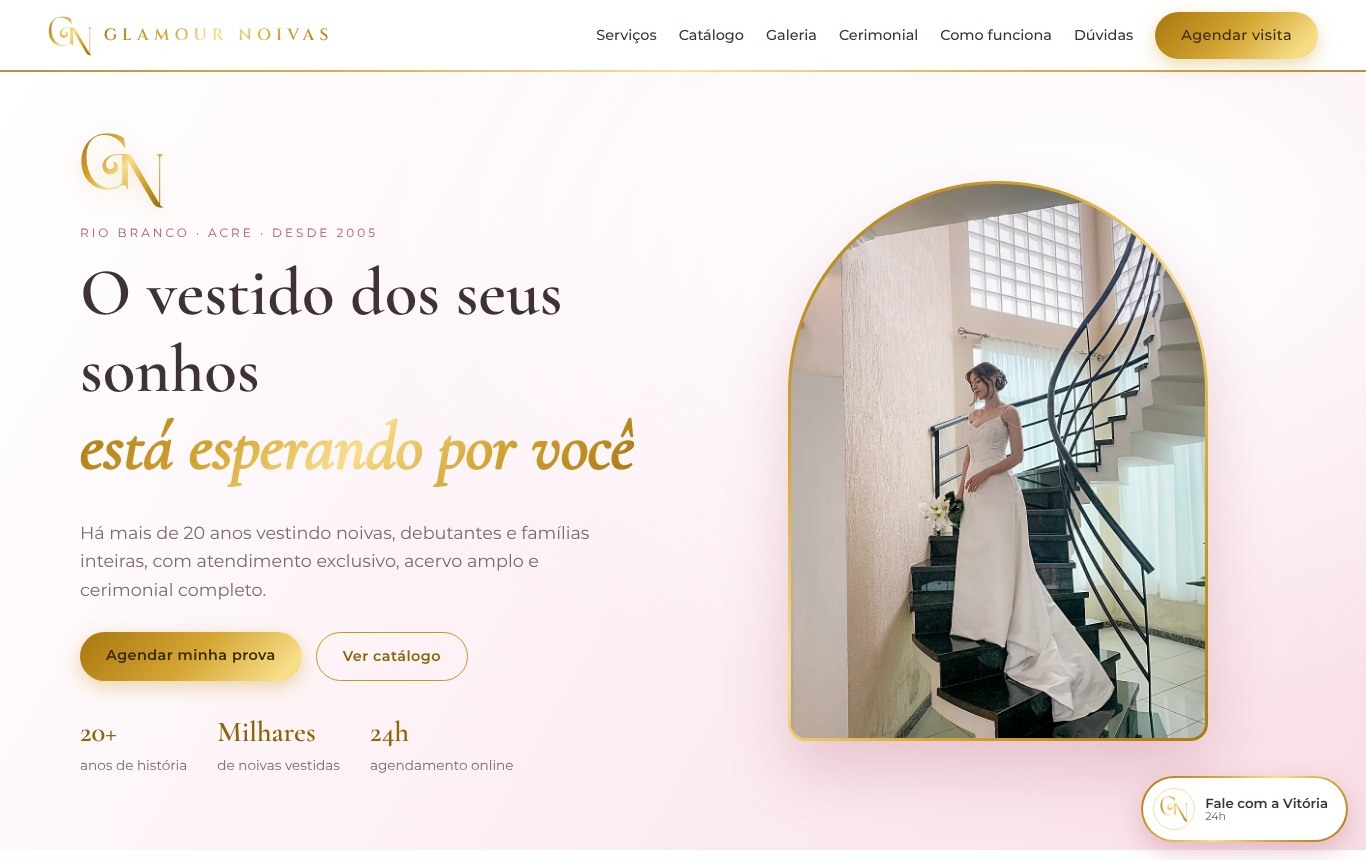
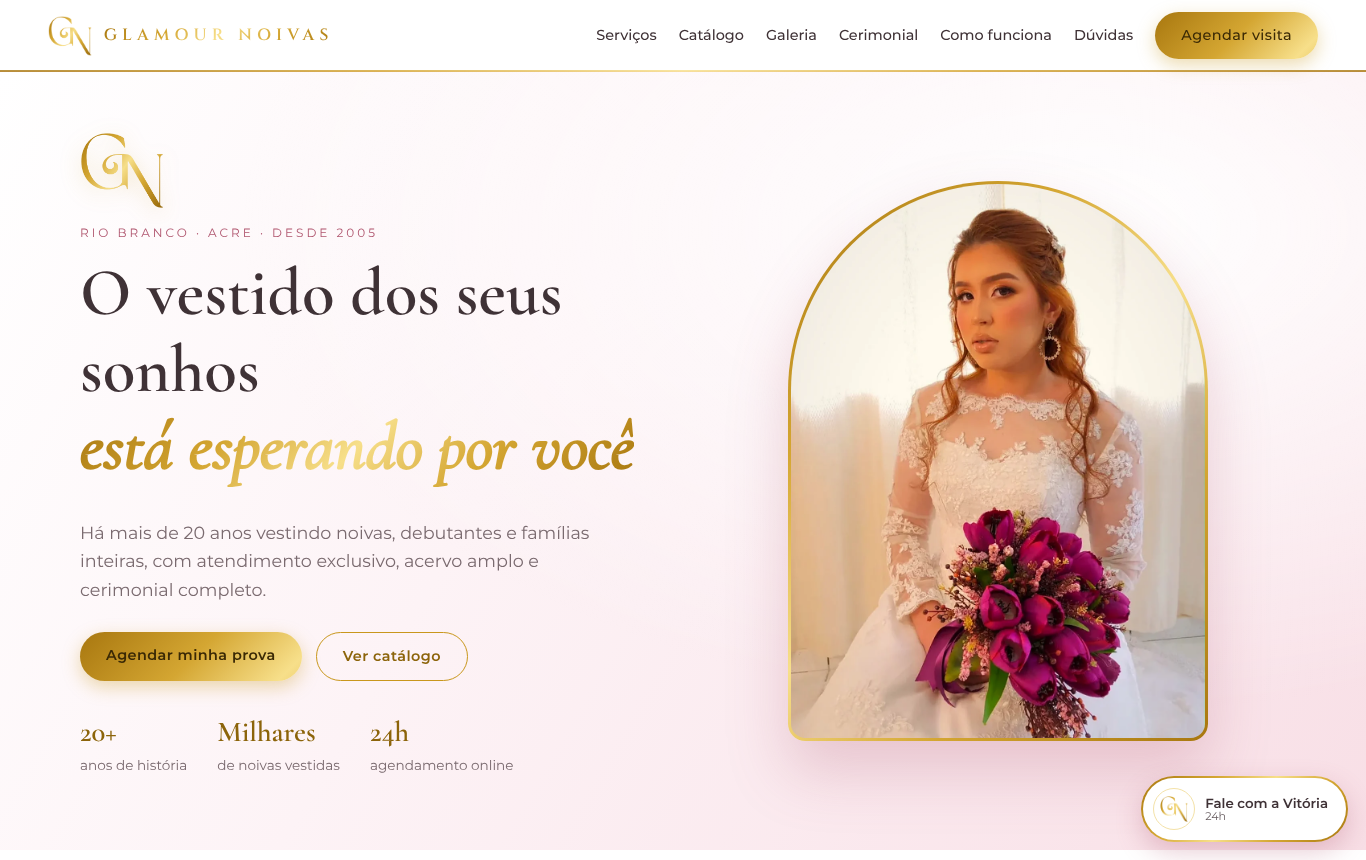
Nova foto de capa (Renda Imperial) com tratamento preservando a luz dourada
Claude-Session: https://claude.ai/code/session_01QKfKEePFHhd3Y5UyopjLB6

Changed region(s): [[0.5534, 0.2116, 0.8917, 0.8767]]

diff --git a/public/index.html b/public/index.html
@@ -15,6 +15,7 @@
 <link rel="preconnect" href="https://fonts.googleapis.com">
 <link rel="preconnect" href="https://fonts.gstatic.com" crossorigin>
 <link href="https://fonts.googleapis.com/css2?family=Cinzel:wght@500;600&family=Cormorant+Garamond:ital,wght@0,500;0,600;1,500&family=Montserrat:wght@400;500;600&display=swap" rel="stylesheet">
+<link rel="preload" as="image" href="img/vestidos/renda-imperial-3.webp">
 <link rel="stylesheet" href="css/style.css">
 <script type="application/ld+json">
 {"@context":"https://schema.org","@type":"ClothingStore","name":"Glamour Noivas","address":{"@type":"PostalAddress","streetAddress":"Rua Paulo VI, 196 - Isaura Parente","addressLocality":"Rio Branco","addressRegion":"AC","addressCountry":"BR"},"telephone":"+55-68-99219-1737","sameAs":["https://www.instagram.com/glamournoivasac/"],"description":"Vestidos de noiva, 15 anos, paletós adulto e infantil, acessórios e cerimonial."}
@@ -52,7 +53,7 @@
       <li><strong>24h</strong> agendamento online</li>
     </ul>
   </div>
-  <figure class="hero-foto"><img src="img/vestidos/perola-3.webp" alt="Noiva com o vestido Pérola na escadaria da Glamour Noivas" fetchpriority="high"></figure>
+  <figure class="hero-foto"><img src="img/vestidos/renda-imperial-3.webp" alt="Noiva com o vestido Renda Imperial e buquê de tulipas" fetchpriority="high"></figure>
 </section>
 
 <section id="servicos" class="secao">

diff --git a/public/css/style.css b/public/css/style.css
@@ -293,3 +293,4 @@ input,select,textarea{border:1px solid var(--rose-forte);background:#fff}
 .chat header{gap:10px}
 .chat-avatar{width:38px;height:38px;border-radius:50%;box-shadow:0 2px 6px rgba(0,0,0,.1)}
 @media (max-width:420px){.marca.logo span{font-size:.82rem;letter-spacing:.22em}.marca.logo img{height:34px}}
+.hero-foto img{object-position:50% 12%}
